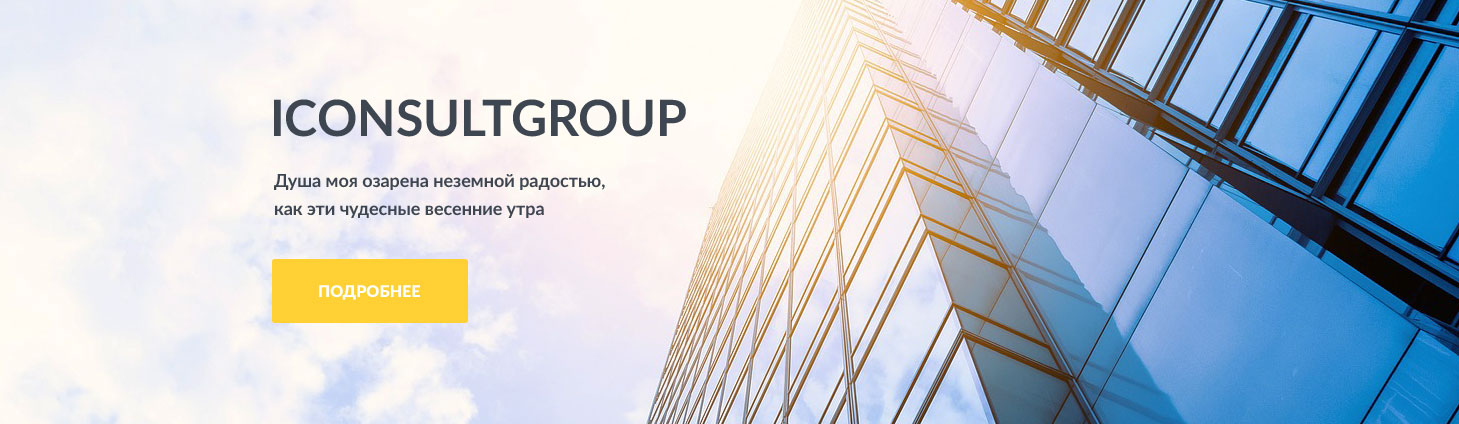
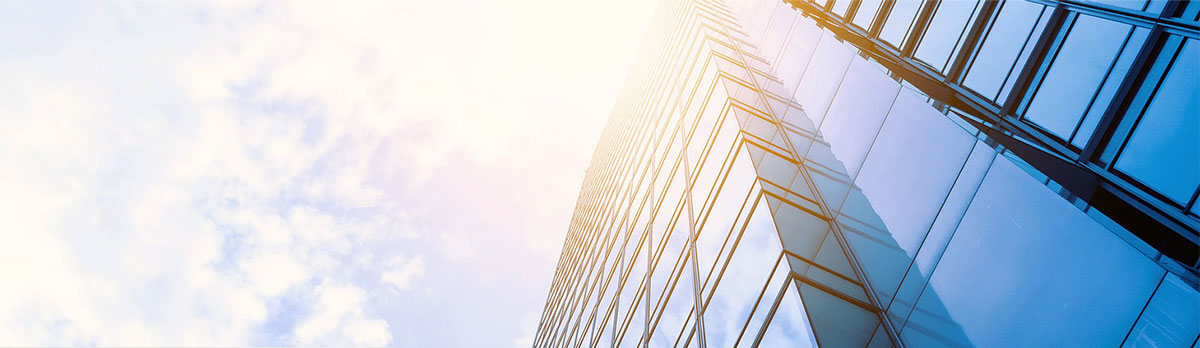
fix small bugs

diff --git a/main.html b/main.html
@@ -79,13 +79,8 @@
                             </div>
                         </li>
                         <li class="hidden-xs hidden-sm">
-                            <div class="header-line__ul__inner">
-                                <form class="search" action="#">
-                                   <!--input class="search__txt" type="text" value="" /-->
-                                   <button class="search__btn" type="submit">
-                                       <img src="img/icon/search.png" alt="">
-                                   </button>
-                                </form>
+                            <div class="header-line__ul__inner search-bt__ul">
+                                <img src="img/icon/search.png" alt="">
                             </div>
                         </li>
                         <li class="lang">
@@ -117,6 +112,19 @@
                             </div>
                         </li>
                     </ul>
+                    <form class="search" action="#">
+                       <div class="search__txt-wrap">
+                           <input class="search__txt" placeholder="Поиск по сайту" type="text" value="" />
+                       </div>
+                       <div class="search__btn-wrap">
+                           <button class="search__btn" type="submit">
+                               <img src="img/icon/search.png" alt="">
+                           </button>
+                       </div>
+                       <div class="search__btn-close">
+                           <img src="img/icon/search_close.png" alt="">
+                       </div>
+                    </form>
                 </div>
             </div>
         </div>
@@ -255,21 +263,51 @@
         </div>
     </header>
 
-    <section class="main-slider">
+    <section class="main-slider hidden-xs">
         <div>
-            <a href="#" title="">
-                <img src="img/content/main_ban.jpg" alt="">
-            </a>
+            <img src="img/content/main_ban.jpg" alt="">
+            <div class="main-slider__content">
+                <div class="main-slider__title">iconsultgroup</div>
+                <div class="main-slider__desc">
+                    Душа моя озарена неземной радостью,
+как эти чудесные весенние утра
+                </div>
+                <div class="main-slider__button">
+                    <a href="#" class="bt bt-yellow">
+                        подробнее
+                    </a>
+                </div>
+            </div>
         </div>
         <div>
-            <a href="#" title="">
-                <img src="img/content/main_ban.jpg" alt="">
-            </a>
+            <img src="img/content/main_ban.jpg" alt="">
+            <div class="main-slider__content">
+                <div class="main-slider__title">iconsultgroup</div>
+                <div class="main-slider__desc">
+                    Душа моя озарена неземной радостью,
+как эти чудесные весенние утра
+                </div>
+                <div class="main-slider__button">
+                    <a href="#" class="bt bt-yellow">
+                        подробнее
+                    </a>
+                </div>
+            </div>
         </div>
         <div>
-            <a href="#" title="">
-                <img src="img/content/main_ban.jpg" alt="">
-            </a>
+            <img src="img/content/main_ban.jpg" alt="">
+            <div class="main-slider__content">
+                <div class="main-slider__title">iconsultgroup</div>
+                <div class="main-slider__desc">
+                    Душа моя озарена неземной радостью,
+как эти чудесные весенние утра
+                </div>
+                <div class="main-slider__button">
+                    <a href="#" class="bt bt-yellow">
+                        подробнее
+                    </a>
+                </div>
+            </div>
         </div>
     </section>
 

diff --git a/css/header.css b/css/header.css
@@ -1,8 +1,12 @@
 header {
-    position: sticky;
     background-color: #fff;
     top: 0;
+    width: 100%;
     z-index: 10
+}
+header.fixed {
+    position: fixed;
+    box-shadow: 0 0 15px 2px rgba(0, 0, 0,.4);
 }
 header .container {
     display: flex;
@@ -37,6 +41,7 @@ header .logo {
 .header-line ul.header-line__ul > li .header-line__ul__inner {
     display: flex;
     line-height:17px;
+    height: 17px;
     align-items: center;
     padding-right:15px;
     margin-right:15px;
@@ -66,22 +71,52 @@ header .logo {
 .header-line ul.header-line__ul > li .header-line__title a:hover {
     text-decoration: underline
 }
-.search {
+.header-line.serarch_open .header-line__ul {
+    display: none
+}
+.header-line.serarch_open .search {
     display: flex
+}
+.search {
+    display: none;
+    align-items: center;
+    height: 33px;
+}
+.search__txt-wrap {
+    flex-grow: 1;
+}
+.search__btn-wrap {
+    width: 70px;
+    text-align: center;
+}
+.search__btn-close {
+    width: 44px;
+    border-left:1px solid #767c83;
+    text-align: right;
+    cursor: pointer;
+    padding: 2px 0 0 0;
+}
+.search__btn:hover,
+.search-bt__ul:hover,
+.search__btn-close:hover {
+    opacity:.8
 }
 .search .search__txt {
     background-color: transparent;
     border:0;
-    border-bottom:1px solid rgba(255,255,255,.6);
     margin:0; padding:0;
     width: 100%;
-    max-width: 180px
+    font-size: 12px;
+    color: #fff
 }
 .search .search__btn {
     background-color:transparent;
     border:0;
-    margin:0; padding:0;
+    width: 100%;
+    margin:0; padding:3px 0 0 0;
 }
+
+
 .header-line__ul > li.lang {
     position:relative
 }

diff --git a/css/main.css b/css/main.css
@@ -589,6 +589,45 @@ h2.h2:before {
     width: 100%
 }
 
+.main-slider .slick-slide {
+    position: relative
+}
+
+.main-slider .main-slider__content {
+    position: absolute;
+    color: #3e4651;
+    width: 100%;
+    max-width: 780px;
+    left: 50%; top: 50%;
+    transform: translate(-50%,-50%);
+}
+.main-slider .main-slider__title {
+    font-size: 40px;
+    font-weight: 600;
+    text-transform: uppercase;
+    margin-bottom: 30px
+}
+.main-slider .main-slider__desc {
+    max-width: 260px;
+    font-size: 14px;
+    font-weight: 600;
+    margin-bottom: 30px;
+}
+.main-slider .main-slider__button .bt {
+    height: 50px;
+    line-height: 50px;
+    width: auto;
+    display: inline-block;
+    padding: 0 30px;
+    font-size: 13px;
+    background-color: #FFD034;
+    border-color: #FFD034;
+}
+.main-slider .main-slider__button .bt:hover {
+    background-color: #ffe281;
+    border-color: #ffe281;
+}
+
 .partners {
     margin-bottom: 55px;
 }

diff --git a/js/function.js b/js/function.js
@@ -91,5 +91,22 @@ $( document ).ready(function() {
     });
     $('.menu__inner li').on('click', function(){
         $(this).toggleClass('openli');
+    });
+
+    var stickyOffset = $('header').offset().top;
+
+    $(window).scroll(function(){
+      var sticky = $('header'),
+          scroll = $(window).scrollTop();
+
+      if (scroll >= stickyOffset) sticky.addClass('fixed');
+      else sticky.removeClass('fixed');
+    });
+
+    $('.search-bt__ul').on('click', function(){
+        $('.header-line').addClass('serarch_open');
+    });
+    $('.search__btn-close').on('click', function(){
+        $('.header-line').removeClass('serarch_open');
     })
 });

diff --git a/css/responsive.css b/css/responsive.css
@@ -16,6 +16,16 @@
         top: 31px;
         opacity: 1;
     }
+    .main-slider .main-slider__content {
+        max-width: 600px
+    }
+    .main-slider .main-slider__content .main-slider__title {
+        margin-bottom: 15px;
+        font-size: 30px;
+    }
+    .main-slider .main-slider__content .main-slider__desc {
+        margin-bottom: 15px
+    }
 }
 @media (max-width: 1024px) {
     .contacts__items {
